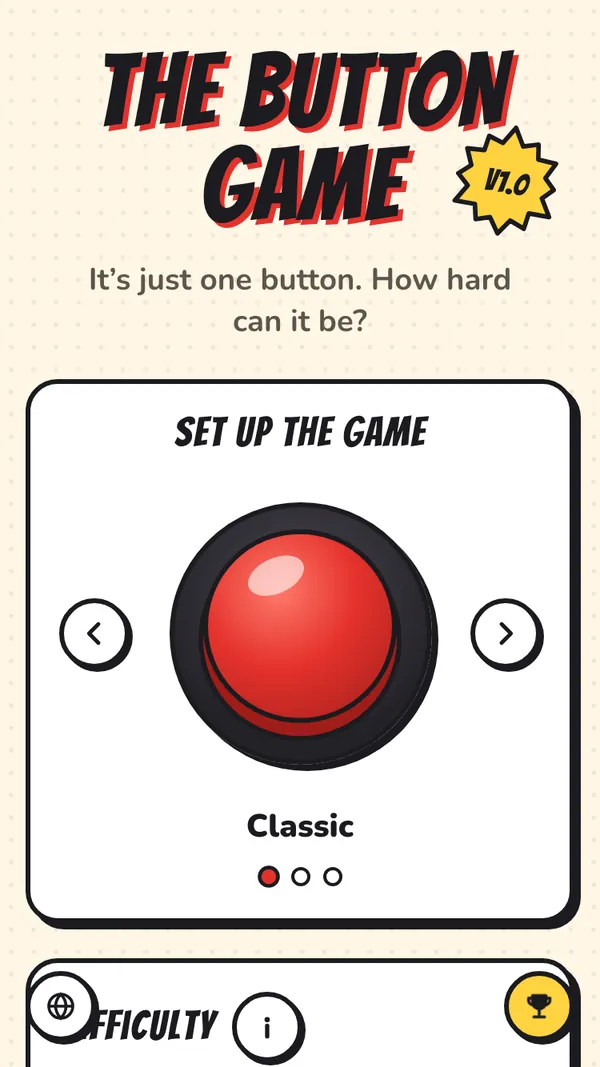
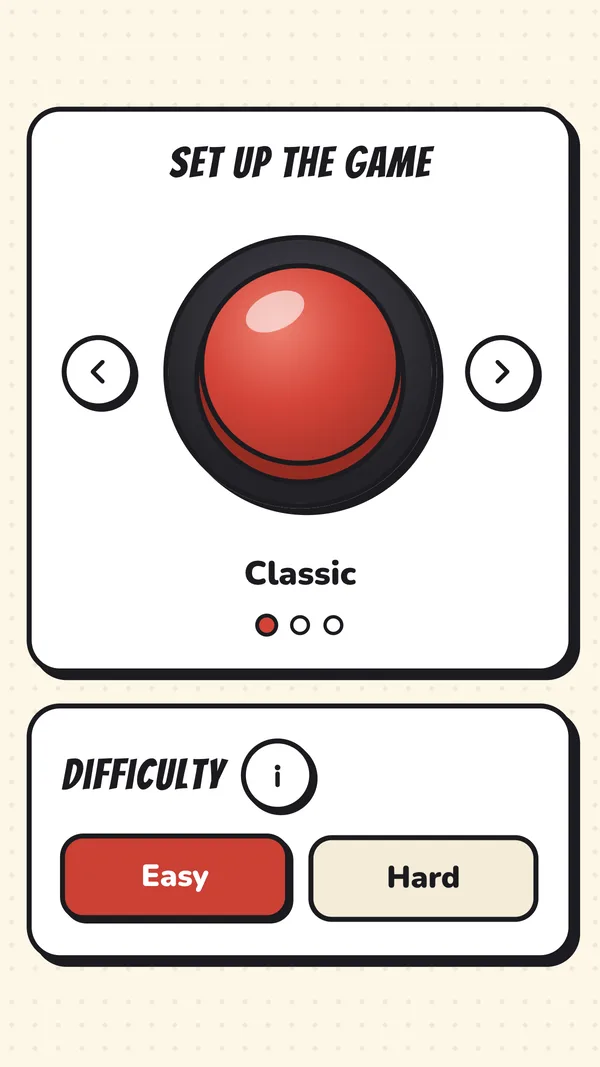
v.1.0.1
Updated the screenshot card
added 20 more questions
added HTML tag for GSC

diff --git a/js/conditions.js b/js/conditions.js
@@ -5,7 +5,7 @@
    Each question is one block between { and }, followed by a comma.
 
    {
-     id: "e051",                  // unique name. e = easy (1), h = hard (2), x = extreme (3)
+     id: "e099",                  // unique name. e = easy (1), h = hard (2), x = extreme (3)
      level: 1,                    // 1 = easy, 2 = hard, 3 = extreme
      answer: 3,                   // how many presses are correct (0 = don't press)
      text: "Wheels on a tricycle.",  // what the player reads (60 characters max)
@@ -92,6 +92,26 @@ window.CONDITIONS = [
   { id: "e048", level: 1, answer: 3,  text: "Colors on a traffic light.",  note: "Red, amber/yellow, green = 3" },
   { id: "e049", level: 1, answer: 2,  text: "Players in a game of chess.", note: "Chess is played by 2 players" },
   { id: "e050", level: 1, answer: 2,  text: "Players in a tennis singles match.", note: "Singles = 1 vs 1 = 2 players" },
+  { id: "e051", level: 1, answer: 5,  text: "Fingers on one hand.",        note: "5 fingers" },
+  { id: "e052", level: 1, answer: 10, text: "Fingers on two hands.",       note: "5 + 5 = 10" },
+  { id: "e053", level: 1, answer: 4,  text: "Wheels on a typical car.",    note: "4 wheels" },
+  { id: "e054", level: 1, answer: 12, text: "Eggs in a dozen.",            note: "A dozen = 12" },
+  { id: "e055", level: 1, answer: 6,  text: "Eggs in a half dozen.",       note: "Half a dozen = 6" },
+  { id: "e056", level: 1, answer: 6,  text: "Faces on a standard die.",    note: "A die has 6 faces" },
+  { id: "e057", level: 1, answer: 2,  text: "Ears on a cat.",              note: "2 ears" },
+  { id: "e058", level: 1, answer: 1,  text: "Tails on a dog.",             note: "1 tail" },
+  { id: "e059", level: 1, answer: 2,  text: "Knees on a human.",           note: "2 knees" },
+  { id: "e060", level: 1, answer: 3,  text: "Letters in the word 'YES'.",  note: "Y-E-S = 3" },
+  { id: "e061", level: 1, answer: 2,  text: "Letters in the word 'NO'.",   note: "N-O = 2" },
+  { id: "e062", level: 1, answer: 3,  text: "Corners of a triangle.",      note: "A triangle has 3 corners" },
+  { id: "e063", level: 1, answer: 2,  text: "Wheels on a motorcycle.",     note: "2 wheels" },
+  { id: "e064", level: 1, answer: 3,  text: "Holes in a bowling ball.",    note: "A bowling ball has 3 finger holes" },
+  { id: "e065", level: 1, answer: 2,  text: "Players in a pair.",          note: "A pair = 2" },
+  { id: "e066", level: 1, answer: 0,  text: "Press none.",                 note: "None = zero presses" },
+  { id: "e067", level: 1, answer: 2,  text: "One plus one.",               note: "1 + 1 = 2" },
+  { id: "e068", level: 1, answer: 5,  text: "Three plus two.",             note: "3 + 2 = 5" },
+  { id: "e069", level: 1, answer: 4,  text: "Letters in the word 'GAME'.", note: "G-A-M-E = 4" },
+  { id: "e070", level: 1, answer: 1,  text: "Thumbs on one hand.",         note: "1 thumb" },
 
   // =================================================================
   // LEVEL 2: HARD. Simple math, general knowledge, mild tricks.
@@ -152,25 +172,60 @@ window.CONDITIONS = [
   { id: "h048", level: 2, answer: 7,  text: "Press once per word in this sentence.", note: "Press / once / per / word / in / this / sentence = 7" },
   { id: "h049", level: 2, answer: 4,  text: "Wheels on two bicycles.",              note: "2 × 2 = 4" },
   { id: "h050", level: 2, answer: 6,  text: "Legs on three ducks.",                 note: "3 × 2 = 6" },
+  { id: "h051", level: 2, answer: 5,  text: "Players on a basketball court per team.", note: "5 per team on court" },
+  { id: "h052", level: 2, answer: 9,  text: "Squares on a tic-tac-toe board.",      note: "3 × 3 = 9" },
+  { id: "h053", level: 2, answer: 8,  text: "Bits in one byte.",                    note: "1 byte = 8 bits" },
+  { id: "h054", level: 2, answer: 6,  text: "Letters in the word 'ELEVEN'.",        note: "Trick: E-L-E-V-E-N = 6 (not 11)" },
+  { id: "h055", level: 2, answer: 6,  text: "Letters in the word 'TWELVE'.",        note: "Trick: T-W-E-L-V-E = 6 (not 12)" },
+  { id: "h056", level: 2, answer: 5,  text: "Minutes in an hour divided by 12.",    note: "60 ÷ 12 = 5" },
+  { id: "h057", level: 2, answer: 12, text: "Hours shown on a half-day clock.",     note: "A 12-hour clock shows 12 hours" },
+  { id: "h058", level: 2, answer: 12, text: "Legs on two insects.",                 note: "6 × 2 = 12" },
+  { id: "h059", level: 2, answer: 4,  text: "Strings on a ukulele.",                note: "A ukulele has 4 strings" },
+  { id: "h060", level: 2, answer: 12, text: "Keys in one piano octave.",            note: "7 white + 5 black = 12" },
+  { id: "h061", level: 2, answer: 8,  text: "Pawns per side at the start of chess.", note: "8 pawns per side" },
+  { id: "h062", level: 2, answer: 2,  text: "Bishops per side in chess.",           note: "2 bishops per side" },
+  { id: "h063", level: 2, answer: 2,  text: "How many O's in 'BOOKKEEPER'?",        note: "B-OO-KKEEPER = 2" },
+  { id: "h064", level: 2, answer: 4,  text: "Prime numbers from 1 to 10.",          note: "2, 3, 5, 7 (1 is not prime)" },
+  { id: "h065", level: 2, answer: 3,  text: "Press (9 − 3) ÷ 2 times.",             note: "6 ÷ 2 = 3" },
+  { id: "h066", level: 2, answer: 5,  text: "Press 3 squared minus 4 times.",       note: "9 − 4 = 5" },
+  { id: "h067", level: 2, answer: 5,  text: "Faces on a square pyramid.",           note: "4 triangles + 1 square = 5" },
+  { id: "h068", level: 2, answer: 6,  text: "Edges on a tetrahedron.",              note: "A tetrahedron has 6 edges" },
+  { id: "h069", level: 2, answer: 3,  text: "How many D's in 'ADDED'?",             note: "A-DD-E-D = 3" },
+  { id: "h070", level: 2, answer: 4,  text: "Quarters in a whole.",                 note: "4 quarters make 1 whole" },
 
   // =================================================================
-  // LEVEL 3: EXTREME. Not playable yet (future Extreme mode).
+  // LEVEL 3: EXTREME. Used as a small share of Hard mode (and a future Extreme mode).
   // Multi-step logic, tricky wording, bigger mental math. Answers up to 15.
   // =================================================================
 
-  { id: "x001", level: 3, answer: 12, text: "Press (7 × 8) − 44 times.",                    note: "56 − 44 = 12" },
-  { id: "x002", level: 3, answer: 13, text: "Press (13 × 3) − 26 times.",                   note: "39 − 26 = 13" },
-  { id: "x003", level: 3, answer: 2,  text: "Legs on a spider minus legs on an insect.",    note: "8 − 6 = 2" },
-  { id: "x004", level: 3, answer: 10, text: "Sides of a hexagon plus sides of a square.",   note: "6 + 4 = 10" },
   { id: "x005", level: 3, answer: 7,  text: "Press the number of letters in 'FIFTEEN'.",    note: "Trick: F-I-F-T-E-E-N = 7 (not 15)" },
   { id: "x006", level: 3, answer: 10, text: "Press once per letter from A to J.",           note: "A B C D E F G H I J = 10" },
   { id: "x007", level: 3, answer: 3,  text: "Minutes in a quarter hour, divided by 5.",     note: "15 ÷ 5 = 3" },
-  { id: "x008", level: 3, answer: 11, text: "Press (1 + 2 + 3 + 4 + 5) − 4 times.",         note: "15 − 4 = 11" },
-  { id: "x009", level: 3, answer: 14, text: "Days in a fortnight.",                         note: "A fortnight = 2 weeks = 14 days" },
-  { id: "x010", level: 3, answer: 15, text: "Press (144 ÷ 12) + 3 times.",                  note: "144 ÷ 12 = 12, + 3 = 15" },
+  { id: "x008", level: 3, answer: 5, text: "Press (1 + 2 + 3 + 4 + 5) − 10 times.",         note: "15 − 10 = 5" },
+  { id: "x010", level: 3, answer: 12, text: "Press 144 ÷ 12 times",                         note: "144 ÷ 12 = 12" },
   { id: "x011", level: 3, answer: 6,  text: "Legs on a tripod times wheels on a bike.",     note: "3 × 2 = 6" },
   { id: "x012", level: 3, answer: 4,  text: "Vowels in 'EXTREME' plus consonants in 'ONE'.", note: "E, E, E = 3; N = 1; 3 + 1 = 4" },
   { id: "x013", level: 3, answer: 0,  text: "Press (9 × 9) − 81 times.",                    note: "81 − 81 = 0: don't press!" },
   { id: "x014", level: 3, answer: 4,  text: "How many E's in 'EXCELLENCE'?",                note: "E-XC-E-LL-E-NC-E = 4" },
-  { id: "x015", level: 3, answer: 5,  text: "Hours in a day ÷ 2, minus days in a week.",    note: "24 ÷ 2 = 12, − 7 = 5" }
+  { id: "x015", level: 3, answer: 5,  text: "Hours in a day ÷ 2, minus days in a week.",    note: "24 ÷ 2 = 12, − 7 = 5" },
+  { id: "x016", level: 3, answer: 15, text: "Press (5 × 5) − 10 times.",                    note: "25 − 10 = 15" },
+  { id: "x017", level: 3, answer: 13, text: "Letters in 'THIRTEEN' plus 5.",                note: "8 + 5 = 13" },
+  { id: "x018", level: 3, answer: 13, text: "Sides of an octagon plus a pentagon.",         note: "8 + 5 = 13" },
+  { id: "x019", level: 3, answer: 15, text: "Hours in a day minus sides of a nonagon.",     note: "24 − 9 = 15" },
+  { id: "x020", level: 3, answer: 15, text: "Press half of 30 times.",                      note: "30 ÷ 2 = 15" },
+  { id: "x021", level: 3, answer: 15, text: "Press 2 to the power of 4, minus 1 times.",    note: "16 − 1 = 15" },
+  { id: "x022", level: 3, answer: 5,  text: "Vowels in the word 'EDUCATION'.",              note: "E, U, A, I, O = 5" },
+  { id: "x023", level: 3, answer: 14, text: "Cube root of 8, times 7.",                     note: "2 × 7 = 14" },
+  { id: "x024", level: 3, answer: 13, text: "Next Fibonacci number after 1,1,2,3,5,8.",     note: "8 + 5 = 13" },
+  { id: "x025", level: 3, answer: 5,  text: "Roman numeral X minus V.",                     note: "10 − 5 = 5" },
+  { id: "x026", level: 3, answer: 13, text: "Press (11 × 2) − 9 times.",                    note: "22 − 9 = 13" },
+  { id: "x027", level: 3, answer: 15, text: "Press once per letter from A to O.",           note: "A through O = 15" },
+  { id: "x028", level: 3, answer: 0,  text: "Press (6 × 6) − 36 times.",                    note: "36 − 36 = 0: don't press!" },
+  { id: "x029", level: 3, answer: 14, text: "Corners on a cube plus faces on a cube.",      note: "8 + 6 = 14" },
+  { id: "x030", level: 3, answer: 12, text: "Olympic rings plus days of the week.",         note: "5 + 7 = 12" },
+  { id: "x031", level: 3, answer: 15, text: "Seconds in a quarter minute.",                 note: "60 ÷ 4 = 15" },
+  { id: "x032", level: 3, answer: 15, text: "3 cubed minus 12.",                            note: "27 − 12 = 15" },
+  { id: "x033", level: 3, answer: 4,  text: "How many I's in 'MISSISSIPPI'?",               note: "M-I-SS-I-SS-I-PP-I = 4" },
+  { id: "x034", level: 3, answer: 11, text: "Sides of a hexagon plus sides of a pentagon.", note: "6 + 5 = 11" },
+  { id: "x035", level: 3, answer: 9,  text: "Letters in 'BUTTON' plus letters in 'CAT'.",   note: "6 + 3 = 9" }
 ];

diff --git a/index.html b/index.html
@@ -3,6 +3,7 @@
 <head>
   <meta charset="utf-8">
   <meta name="viewport" content="width=device-width, initial-scale=1, viewport-fit=cover">
+  <meta name="google-site-verification" content="7M4_3Lc7u4pwSYHqJ8lDpwoXOMzNEf6OSzPmAoXOPu0" />
 
   <!-- EDIT: the page title (browser tab and Google results) -->
   <title>The Button Game: one button, zero mercy</title>
@@ -150,8 +151,8 @@
            difficulty's paragraph is shown (data-difficulty tells which is which).
            Don't write exact seconds here: they change when you edit config.js. -->
       <div class="popover" id="difficulty-info" hidden>
-        <p data-difficulty="easy"><strong>Easy:</strong> more time, mostly simple questions, a live counter under the button, and the right answer shown when you fail.</p>
-        <p data-difficulty="hard"><strong>Hard:</strong> less time, mostly tricky questions, no counter, and no answer at the end.</p>
+        <p data-difficulty="easy"><strong>Easy:</strong> mostly simple questions, a live counter under the button, and the right answer shown when you fail.</p>
+        <p data-difficulty="hard"><strong>Hard:</strong> mostly tricky questions with a few extreme ones, no counter, and no answer at the end.</p>
       </div>
     </section>
 
@@ -199,9 +200,9 @@
           <figure>
             <div class="phone">
               <img src="assets/screenshots/landing.webp" width="600" height="1067" loading="lazy" decoding="async"
-                   alt="The landing page: the game title, and the red button you can restyle with arrows.">
+                   alt="Set up the game: pick a button style, then choose Easy or Hard.">
             </div>
-            <figcaption>Set up the game</figcaption>
+            <figcaption>Prepare</figcaption>
           </figure>
         </li>
         <li class="showcase__item">

diff --git a/js/config.js b/js/config.js
@@ -10,7 +10,7 @@
    THE THINGS YOU WILL CHANGE MOST OFTEN ARE THE LEVEL TIMERS, right below.
 
    Example: to give Easy players 8 seconds per level, change
-       easy: 7,
+       easy: 5,
    to
        easy: 8,
    ===================================================================== */
@@ -22,7 +22,7 @@ window.CONFIG = {
   // Decimals are fine (e.g. 6.5). Every level of a run lasts exactly this long.
   // Keep it at 4 or more: players need time to read the question AND tap up to 12 times.
   levelTimeSeconds: {
-    easy: 6,
+    easy: 5,
     hard: 5
     // extreme: decided later
   },
@@ -40,7 +40,7 @@ window.CONFIG = {
     },
 
     hard: {
-      conditionWeights: { 1: 0.3, 2: 0.7 },
+      conditionWeights: { 1: 0.15, 2: 0.7, 3: 0.15 },
       instantFail: true,
       showLiveCounter: false,
       // OWNER DECISION PENDING: consider revealing the correct answer on Hard too.
